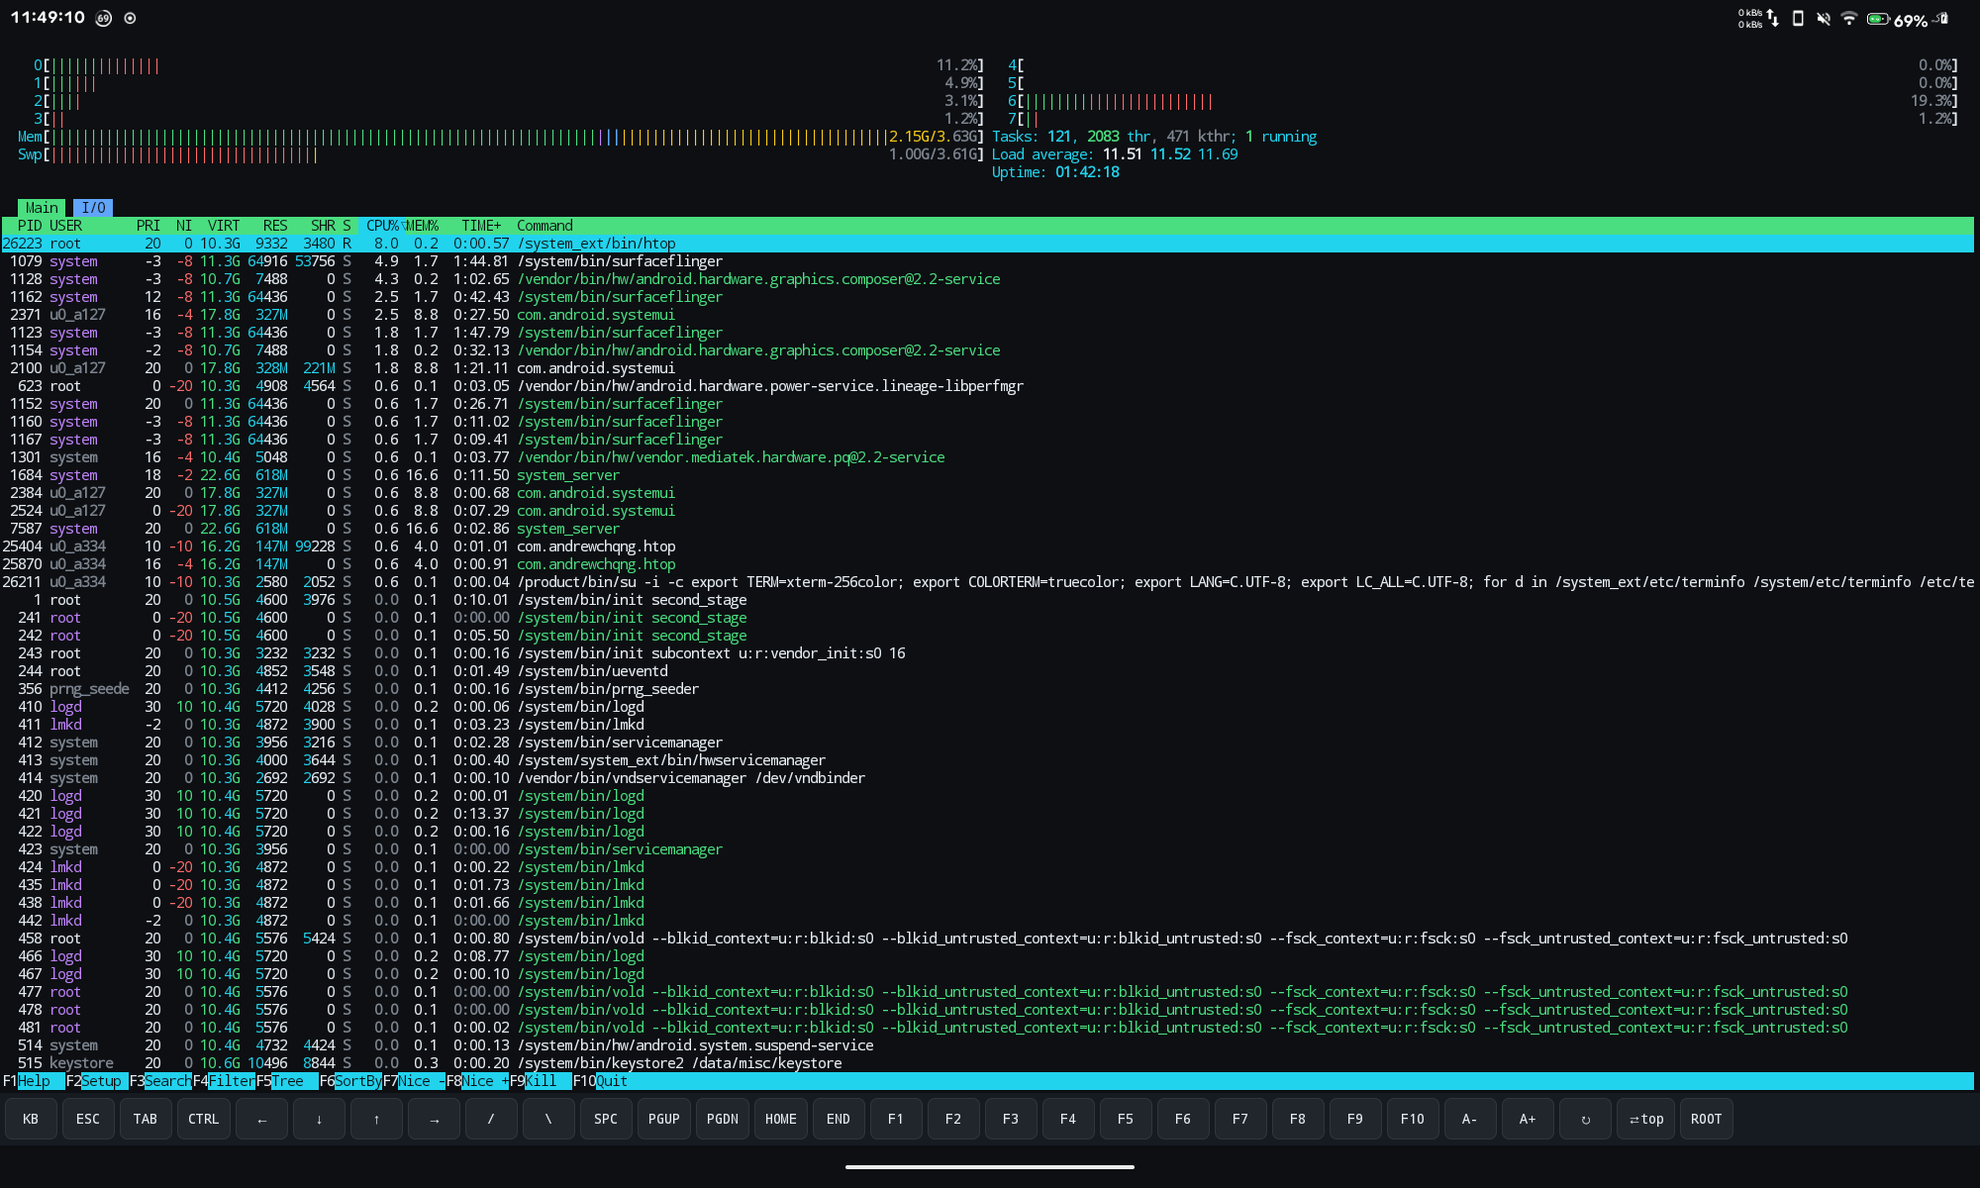
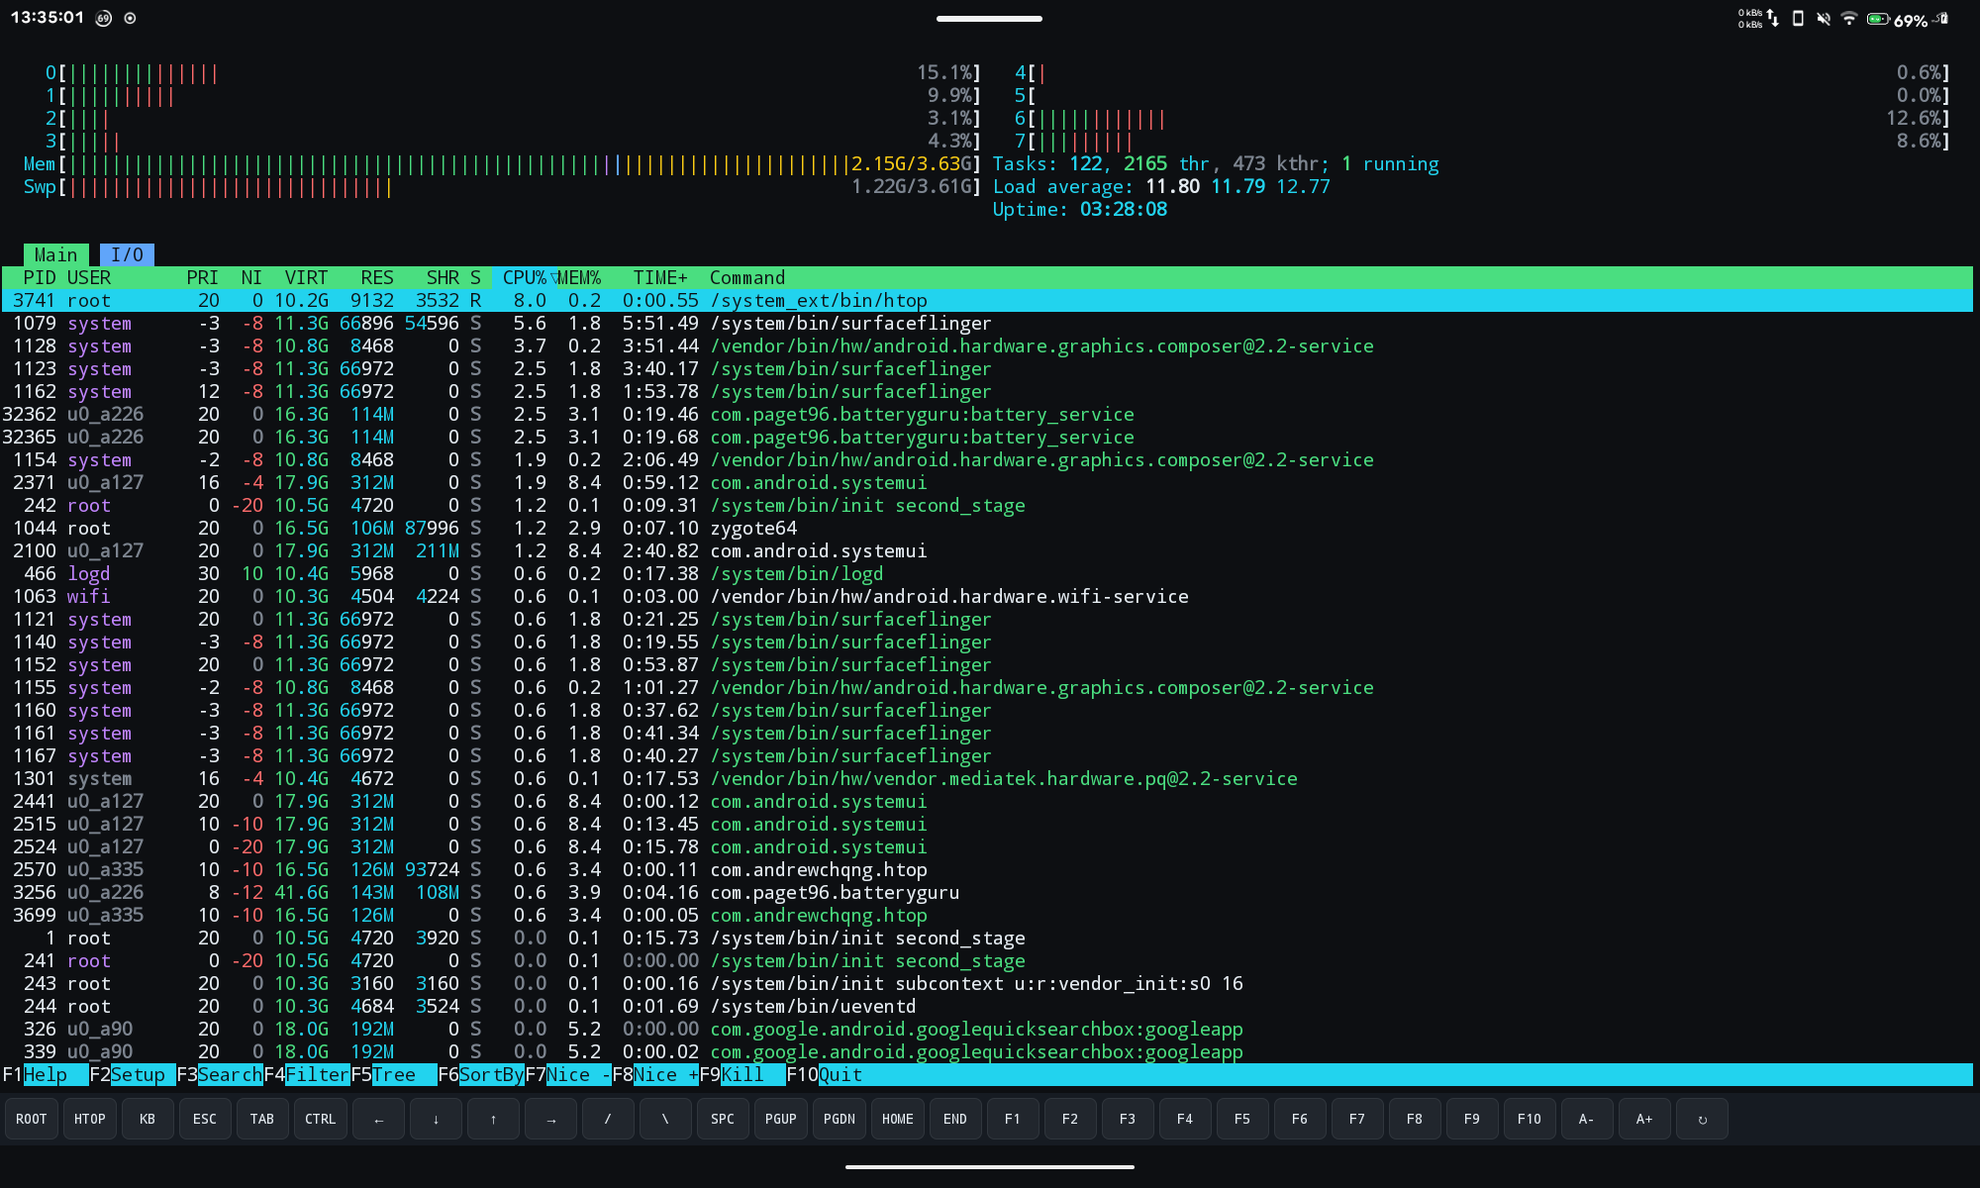
docs: refresh screenshots with leading toolbar pickers and optimize README for SEO
Recaptures all 4 device screenshots showing ROOT/SHZ/USER and HTOP/BND/TOP at the start of the toolbar, and restructures README.md with SEO headings, mode/package tables, Obtainium guide, and ADB examples.

diff --git a/README.md b/README.md
@@ -1,56 +1,111 @@
-# android-htop-gui
+# Android htop GUI — Native Process Monitor & Task Manager (Root, Shizuku & LineageOS)
 
-Lightweight native Android application that launches `htop` inside a native pseudo-terminal (PTY) — via root (`su`), [Shizuku](https://shizuku.rikka.app/), or non-root — and passes through touch, hardware mouse/scroll wheel, hardware keyboard, virtual keyboard (IME), and a compact extra-keys toolbar directly to the TUI.
+**`android-htop-gui`** is a lightweight, zero-permission native **Android `htop` GUI, process viewer, and system task manager**. It runs `htop` or `top` inside a C JNI pseudo-terminal (`/dev/ptmx` PTY) — supporting **Root (`su` / Magisk / KernelSU / APatch)**, **[Shizuku](https://shizuku.rikka.app/) (no root required, ADB / wireless debugging)**, and **Non-Root (`USER`)** modes — with full **touchscreen**, **hardware mouse/scroll wheel**, **hardware keyboard**, **virtual keyboard (IME)**, and **extra-keys toolbar** passthrough.
 
-<a href="https://apps.obtainium.imranr.dev/redirect?r=obtainium://app/%7B%22id%22%3A%22com.andrewchqng.htop%22%2C%22url%22%3A%22https%3A%2F%2Fgithub.com%2FAndrewChqng%2Fandroid-htop-gui%22%2C%22author%22%3A%22AndrewChqng%22%2C%22name%22%3A%22Android%20htop%22%2C%22additionalSettings%22%3A%22%7B%5C%22includePrereleases%5C%22%3Afalse%2C%5C%22fallbackToOlderReleases%5C%22%3Atrue%2C%5C%22autoApkFilterByArch%5C%22%3Atrue%7D%22%7D"><img src="docs/badge_obtainium.png" alt="Get it on Obtainium" height="56"></a>
+Works out of the box on **LineageOS** and custom ROMs with `/system_ext/bin/htop` preinstalled, **and** ships a self-contained **bundled `htop 3.5.3`** binary ([`arter97/android-htop`](https://github.com/arter97/android-htop) with statically linked `ncurses` and compiled-in `xterm-256color` terminfo) for stock Android / Pixel / Samsung / AOSP devices without `htop`.
 
-![Android htop running as root on LineageOS](docs/screenshots/htop-root.png)
+<p>
+  <a href="https://apps.obtainium.imranr.dev/redirect?r=obtainium://app/%7B%22id%22%3A%22com.andrewchqng.htop%22%2C%22url%22%3A%22https%3A%2F%2Fgithub.com%2FAndrewChqng%2Fandroid-htop-gui%22%2C%22author%22%3A%22AndrewChqng%22%2C%22name%22%3A%22Android%20htop%22%2C%22additionalSettings%22%3A%22%7B%5C%22includePrereleases%5C%22%3Afalse%2C%5C%22fallbackToOlderReleases%5C%22%3Atrue%2C%5C%22autoApkFilterByArch%5C%22%3Atrue%7D%22%7D"><img src="docs/badge_obtainium.png" alt="Get Android htop GUI on Obtainium" height="56"></a>
+</p>
 
-## Requirements & Execution Modes
+![Android htop GUI running as root on LineageOS with per-core CPU, memory, swap, and process list](docs/screenshots/htop-root.png)
 
-- **Root Access (`su`), Shizuku Mode, or Non-Root (Manual Selection)**: Select the execution backend manually via the leading **`ROOT`** / **`SHZ`** / **`USER`** pill at the start of the extra-keys toolbar or from the exit banner (no automatic fallback):
-  - **Root (`su`)**: MagiskSU / KernelSU with full `/proc` visibility and process signaling (`F7`/`F8`/`F9`). Uses `stty raw -echo` + `su -i -c` on MagiskSU for live `SIGWINCH` resize propagation (with `su -c` support).
-  - **Shizuku Mode**: Runs the native `/dev/ptmx` PTY inside a [Shizuku](https://shizuku.rikka.app/) `UserService` (`ShizukuPtyService`) using Shizuku's privileged `shell` (UID `2000`, `readproc`) or root context.
-  - **Non-Root (`USER`)**: Standard unprivileged app UID context.
-- **LineageOS / System `htop`, Bundled `htop`, or System `top` (Manual Selection)**: Choose the monitor binary via the **`HTOP`** / **`BND`** / **`TOP`** pill at the start of the extra-keys toolbar or from the exit banner (no automatic fallback between modes):
-  - **System `htop` (`HTOP`, default)**: Launches `/system_ext/bin/htop`, `/system/bin/htop`, `/system/xbin/htop`, `/data/local/tmp/htop`, or Termux `htop`.
-  - **Bundled `htop` (`BND`, [`arter97/android-htop`](https://github.com/arter97/android-htop) 3.5.3)**: Runs the self-contained `libhtop_bundled.so` binary packaged via `jniLibs` (statically linked against `ncurses` with compiled-in fallback terminfo entries, no `INTERNET` permission required).
-  - **System `top` (`TOP`)**: Launches Android's built-in `/system/bin/top -d 1`.
+---
+
+## Key Features
+
+- **3 Execution Backends (`ROOT` / `SHZ` / `USER`)**:
+  - **`ROOT` (`su`)**: Full `/proc` process & thread visibility, per-core CPU/RAM/swap meters, process priority renicing (`F7`/`F8`), and signal/kill (`F9`) via MagiskSU, KernelSU, or APatch.
+  - **`SHZ` ([Shizuku](https://shizuku.rikka.app/))**: Runs a privileged `ShizukuPtyService` (`UserService`) under Android's `shell` UID (`2000`, `readproc` group) or root — view system processes on unrooted devices using wireless debugging or ADB.
+  - **`USER` (Non-Root)**: Unprivileged app sandbox execution (Android 10–17 W^X compliant via `jniLibs` native library extraction).
+- **3 Process Monitor Binaries (`HTOP` / `BND` / `TOP`)**:
+  - **`HTOP` (System `htop`, default)**: Launches the ROM's built-in `htop` (`/system_ext/bin/htop` on LineageOS, `/system/bin/htop`, `/system/xbin/htop`, `/data/local/tmp/htop`, or Termux `htop`).
+  - **`BND` (Bundled `htop 3.5.3` via [`arter97/android-htop`](https://github.com/arter97/android-htop))**: Self-contained Android `htop` executable (`libhtop_bundled.so`) with compiled-in `ncurses` terminfo fallbacks (`xterm-256color`, `vt100`, etc.) — works on stock ROMs with zero external dependencies and **no `INTERNET` permission**.
+  - **`TOP` (System `top`)**: Launches Android's built-in `/system/bin/top -d 1`.
+- **Touch, Mouse & Keyboard TUI Control**:
+  - **Touch**: Tap any process row, column header (to sort by `CPU%`, `MEM%`, `PID`, `TIME+`), or `F1`–`F10` footer key (`SGR 1006` mouse reporting); drag vertically to scroll; drag horizontally to pan command lines; pinch-to-zoom font size (`7sp`–`28sp`) with live `TIOCSWINSZ` / `SIGWINCH` terminal reflow.
+  - **Extra-Keys Toolbar**: Leading **`ROOT`/`SHZ`/`USER`** and **`HTOP`/`BND`/`TOP`** popup pickers, virtual keyboard toggle (`KB`), `ESC`, `TAB`, sticky `CTRL`, auto-repeating arrow keys (`←`/`↓`/`↑`/`→`), `/`, `\`, `SPC`, `PGUP`, `PGDN`, `HOME`, `END`, `F1`–`F10`, font zoom (`A-`/`A+`), and session restart (`↻`).
+  - **Hardware Peripherals**: Full USB/Bluetooth keyboard (`F1`–`F12`, `Ctrl`/`Alt`/`Shift` combos) and mouse click + scroll wheel (`AXIS_VSCROLL`/`AXIS_HSCROLL`) support for Android tablets, foldables, DeX, and desktop mode.
+
+---
 
 ## Screenshots
 
-| Root Mode (`htop` on LineageOS) | Shizuku Mode (`F5` Tree View, No Root) |
+| Root Mode (`ROOT` + System `HTOP` on LineageOS) | Shizuku Mode (`SHZ` + Bundled `BND` `F5` Tree View) |
 | :---: | :---: |
-| ![Root Mode htop](docs/screenshots/htop-root.png) | ![Shizuku Mode F5 Tree View](docs/screenshots/htop-tree-shizuku.png) |
-| **`ROOT`** — native `/system_ext/bin/htop` with full `/proc` visibility and extra-keys bar | **`SHZ`** — Shizuku `UserService` PTY + `F5` process tree view without root |
+| ![Android htop Root Mode on LineageOS](docs/screenshots/htop-root.png) | ![Android htop Shizuku Mode Bundled htop 3.5.3 F5 Tree View](docs/screenshots/htop-tree-shizuku.png) |
+| **`ROOT` + `HTOP`** — native `/system_ext/bin/htop` with full `/proc` visibility and leading toolbar pickers | **`SHZ` + `BND`** — bundled `arter97/android-htop 3.5.3` in `F5` process tree view via Shizuku (no root) |
 
-| Interactive `F3` Search | Built-in `top` Fallback (`⇄top` / `⇄htop`) |
+| Interactive `F3` Process Search | Built-in Android `top` Mode (`SHZ` + `TOP`) |
 | :---: | :---: |
-| ![Interactive F3 Search](docs/screenshots/htop-search.png) | ![Shizuku Mode top Fallback](docs/screenshots/top-shizuku.png) |
-| Live **`F3` Search** (`F4` filter, `F6` sort, pinch-zoom & touch scroll/tap) | Automatic **`top -d 1`** fallback and one-tap live mode switching |
+| ![Android htop interactive F3 process search](docs/screenshots/htop-search.png) | ![Android top process monitor running via Shizuku](docs/screenshots/top-shizuku.png) |
+| Live **`F3` Search** (`F4` filter, `F6` sort, pinch-zoom & touch scroll/tap) | **`SHZ` + `TOP`** — Android `/system/bin/top -d 1` selectable anytime from the toolbar picker |
 
-## Architecture & Features
+---
+
+## Download & Install
+
+### Option 1: Obtainium (Recommended for Auto-Updates)
+Click the **[Get it on Obtainium](https://apps.obtainium.imranr.dev/redirect?r=obtainium://app/%7B%22id%22%3A%22com.andrewchqng.htop%22%2C%22url%22%3A%22https%3A%2F%2Fgithub.com%2FAndrewChqng%2Fandroid-htop-gui%22%2C%22author%22%3A%22AndrewChqng%22%2C%22name%22%3A%22Android%20htop%22%2C%22additionalSettings%22%3A%22%7B%5C%22includePrereleases%5C%22%3Afalse%2C%5C%22fallbackToOlderReleases%5C%22%3Atrue%2C%5C%22autoApkFilterByArch%5C%22%3Atrue%7D%22%7D)** badge above or add `https://github.com/AndrewChqng/android-htop-gui` in [Obtainium](https://github.com/ImranR98/Obtainium). With architecture filtering enabled, Obtainium automatically downloads the slim per-ABI APK for your device.
+
+### Option 2: GitHub Releases (Per-ABI Split APKs, Universal APK, or `.apks`)
+Download the latest v2/v3-signed package from [**GitHub Releases**](https://github.com/AndrewChqng/android-htop-gui/releases/latest):
+
+| Package | Size | Target Devices |
+| :--- | :---: | :--- |
+| `android-htop-gui-v*-arm64-v8a-release.apk` | ~396 KB | Modern 64-bit ARM phones & tablets (`arm64-v8a`) |
+| `android-htop-gui-v*-armeabi-v7a-release.apk` | ~374 KB | 32-bit ARM devices (`armeabi-v7a`) |
+| `android-htop-gui-v*-x86_64-release.apk` | ~400 KB | `x86_64` tablets, ChromeOS, Waydroid & Android emulators |
+| `android-htop-gui-v*-universal-release.apk` | ~922 KB | Universal standalone APK containing all ABIs |
+| `android-htop-gui-v*-release.apks` | ~961 KB | Split APK Set archive for Obtainium, SAI, App Manager & `bundletool` |
+
+---
+
+## Execution Backends & Monitor Modes
+
+Select both the **execution backend** (`ROOT` / `SHZ` / `USER`) and **monitor binary** (`HTOP` / `BND` / `TOP`) manually via the two leading pills at the far left of the extra-keys toolbar or from the session exit banner. Your choices persist across launches (no unexpected silent fallbacks).
+
+| Toolbar Pill | Options | Description |
+| :--- | :--- | :--- |
+| **Backend (`ROOT` / `SHZ` / `USER`)** | `Root (su)` · `Shizuku` · `Non-Root` | Controls whether the PTY shell runs via `su -i -c` (Root), `ShizukuPtyService` (`shell` UID 2000 / root), or the unprivileged app UID. |
+| **Monitor (`HTOP` / `BND` / `TOP`)** | `System htop` · `Bundled htop (arter97)` · `System top` | Selects the device's ROM `htop`, the bundled self-contained `htop 3.5.3` (`libhtop_bundled.so`), or `/system/bin/top -d 1`. |
+
+You can also launch a specific combination directly over `adb`:
+
+```bash
+# Root + System htop
+adb shell am start -n com.andrewchqng.htop/.MainActivity --es backend root --es mode htop
+
+# Shizuku + Bundled htop 3.5.3 (no root or ROM htop required)
+adb shell am start -n com.andrewchqng.htop/.MainActivity --es backend shizuku --es mode bundled
+
+# Shizuku + System top
+adb shell am start -n com.andrewchqng.htop/.MainActivity --es backend shizuku --es mode top
+```
+
+---
+
+## Architecture
 
 - **Native PTY Bridge ([`pty.c`](app/src/main/cpp/pty.c), [`PtyNative.kt`](app/src/main/java/com/andrewchqng/htop/pty/PtyNative.kt), [`PtySession.kt`](app/src/main/java/com/andrewchqng/htop/pty/PtySession.kt))**:
-  - Opens `/dev/ptmx` with `TIOCSWINSZ`, `IUTF8`, and clean FD/signal hygiene before `execve("/system/bin/sh", ...)`.
-  - Runs dedicated background reader, writer, and process-waiter threads so UI/touch callbacks never block the main thread.
-- **Process Monitor Modes & Command Builder ([`HtopCommandBuilder.kt`](app/src/main/java/com/andrewchqng/htop/pty/HtopCommandBuilder.kt))**:
-  - Sets `TERM=xterm-256color`, `COLORTERM=truecolor`, `LANG=C.UTF-8`, auto-detects device `TERMINFO` (e.g., `/system_ext/etc/terminfo`), and points `XDG_CONFIG_HOME` to app-private `files/config` (or `/data/local/tmp/.android-htop-config` under Shizuku) so `htoprc` persists across runs.
-  - Supports **System `htop`** (`HTOP`), **Bundled `htop`** (`BND`, from `nativeLibraryDir/libhtop_bundled.so` with `/data/local/tmp/.android-htop-bundled` fallback for strict SELinux `shell` contexts), and **System `top`** (`TOP`), without automatic cross-mode fallback.
-  - Uses `stty raw -echo` + `su -i -c` on MagiskSU (falling back to `su -c`) so `SIGWINCH` window resizes and raw input sequences propagate cleanly.
-- **VT100 / xterm-256color Emulator & Canvas Renderer ([`TerminalEmulator.kt`](app/src/main/java/com/andrewchqng/htop/terminal/TerminalEmulator.kt), [`TerminalBuffer.kt`](app/src/main/java/com/andrewchqng/htop/terminal/TerminalBuffer.kt), [`TerminalView.kt`](app/src/main/java/com/andrewchqng/htop/ui/TerminalView.kt))**:
-  - Supports alternate screen (`?1049h`/`l`), SGR 16/256/24-bit colors, DEC line-drawing & UTF-8, scroll regions (`DECSTBM`), `DECCKM` (`?1h`/`l`), and SGR 1006 / X10 mouse tracking (`?1006;1000h`).
-  - Lock-free `Canvas` snapshot rendering with zero per-frame allocations.
-- **Full Input Passthrough ([`InputEncoder.kt`](app/src/main/java/com/andrewchqng/htop/ui/InputEncoder.kt), [`ExtraKeysBar.kt`](app/src/main/java/com/andrewchqng/htop/ui/ExtraKeysBar.kt))**:
-  - **Touch**: tap rows, column headers, or `F1`–`F10` footer buttons (`SGR 1006` press+release); vertical drag scrolls the list (`wheel 64/65`); horizontal drag pans wide command lines (`Left`/`Right` arrows); two-finger pinch zooms font size (`7sp`–`28sp`) with live `SIGWINCH` reflow.
-  - **Hardware Mouse**: left/middle/right clicks, drag tracking, and vertical/horizontal scroll wheel (`AXIS_VSCROLL`/`AXIS_HSCROLL`).
-  - **Keyboard & IME**: hardware keyboard (`F1`–`F12`, arrows, `Ctrl` combos, `Alt` combos, `Shift+Tab`), virtual IME (`BaseInputConnection`), and an extra-keys toolbar (`ROOT`/`SHZ`/`USER`, `HTOP`/`BND`/`TOP`, `KB`, `ESC`, `TAB`, sticky `CTRL`, repeatable arrows, `F1`–`F10`, `A-`/`A+`, `↻`).
+  - Opens `/dev/ptmx` with `TIOCSWINSZ`, `IUTF8`, 16 KB page-size alignment (`-Wl,-z,max-page-size=16384`), and clean FD/signal hygiene before `execve("/system/bin/sh", ...)`.
+  - Dedicated reader, writer, and `waitpid` threads keep UI rendering and touch callbacks lock-free.
+- **Shizuku `UserService` IPC ([`ShizukuPtyService.kt`](app/src/main/java/com/andrewchqng/htop/shizuku/ShizukuPtyService.kt), [`ShizukuPtySession.kt`](app/src/main/java/com/andrewchqng/htop/shizuku/ShizukuPtySession.kt))**:
+  - Runs the native PTY bridge inside Shizuku's privileged process over Binder AIDL with automatic death-recipient cleanup.
+- **Command & Environment Builder ([`HtopCommandBuilder.kt`](app/src/main/java/com/andrewchqng/htop/pty/HtopCommandBuilder.kt))**:
+  - Exports `TERM=xterm-256color`, `COLORTERM=truecolor`, `LANG=C.UTF-8`, auto-detects device `TERMINFO` (`/system_ext/etc/terminfo`, `/system/etc/terminfo`, Termux), and sets `XDG_CONFIG_HOME` so `htoprc` preferences persist across sessions.
+  - Uses `stty raw -echo` + `su -i -c` on MagiskSU (falling back to `su -c`) so `SIGWINCH` window resizes and raw escape sequences propagate cleanly.
+- **VT100 / xterm-256color Terminal Emulator & Canvas Renderer ([`TerminalEmulator.kt`](app/src/main/java/com/andrewchqng/htop/terminal/TerminalEmulator.kt), [`TerminalBuffer.kt`](app/src/main/java/com/andrewchqng/htop/terminal/TerminalBuffer.kt), [`TerminalView.kt`](app/src/main/java/com/andrewchqng/htop/ui/TerminalView.kt))**:
+  - Alternate screen buffer (`?1049h`/`l`), SGR 16/256/24-bit truecolor, DEC line-drawing & UTF-8 block meters, scroll regions (`DECSTBM`), `DECCKM` (`?1h`/`l`), and SGR 1006 / X10 mouse tracking (`?1006;1000h`).
+  - Zero-allocation `Canvas` frame rendering.
+
+---
 
 ## Rebuilding & Auto-Updating Bundled `htop`
 
-[`arter97/android-htop`](https://github.com/arter97/android-htop) is mounted as a Git submodule at `third_party/android-htop` and invoked through the wrapper [`scripts/build-bundled-htop.sh`](scripts/build-bundled-htop.sh) (which builds `arm64-v8a`, `armeabi-v7a`, and `x86_64`, verifies 16 KB ELF page alignment, installs `app/src/main/jniLibs/<abi>/libhtop_bundled.so`, and writes [`third_party/VERSIONS.txt`](third_party/VERSIONS.txt)).
+[`arter97/android-htop`](https://github.com/arter97/android-htop) is mounted as a Git submodule at `third_party/android-htop` and invoked through [`scripts/build-bundled-htop.sh`](scripts/build-bundled-htop.sh), which cross-compiles static `ncurses` + `htop` for `arm64-v8a`, `armeabi-v7a`, and `x86_64`, verifies 16 KB ELF page alignment, installs `app/src/main/jniLibs/<abi>/libhtop_bundled.so`, and writes [`third_party/VERSIONS.txt`](third_party/VERSIONS.txt).
 
-- **Automatic Updates**: [`.github/workflows/update-bundled-htop.yml`](.github/workflows/update-bundled-htop.yml) runs daily (and on `workflow_dispatch`) to sync the `arter97/android-htop` submodule and upstream `htop`/`ncurses` releases, rebuild `jniLibs`, verify unit tests, and commit updates to `main`.
+- **Automated CI Sync**: [`.github/workflows/update-bundled-htop.yml`](.github/workflows/update-bundled-htop.yml) runs daily (and on `workflow_dispatch`) to check for new `arter97/android-htop` commits or upstream `htop-dev/htop` releases, rebuilds all `jniLibs`, runs unit tests, and commits updates to `main`.
 - **Local Rebuild**:
 
 ```bash
@@ -58,29 +113,34 @@ ANDROID_NDK_HOME=$HOME/Android/Sdk/ndk/28.2.13676358 \
   ./scripts/build-bundled-htop.sh
 ```
 
-## Build & Install
+---
+
+## Build from Source
 
 Requirements: Android SDK (`compileSdk 36`, NDK `28.2.13676358`, CMake `3.22.1`), JDK 21, `adb`.
 
-Builds produce per-ABI split APKs (`arm64-v8a`, `armeabi-v7a`, `x86_64`), a combined `universal` APK, and a bundletool APK Set archive (`app-<buildType>.apks`) under `app/build/outputs/apk/<buildType>/`:
+Builds output per-ABI split APKs (`arm64-v8a`, `armeabi-v7a`, `x86_64`), a combined `universal` APK, and a single-variant `app-<buildType>.apks` archive under `app/build/outputs/apk/<buildType>/`:
 
 ```bash
+git clone --recurse-submodules https://github.com/AndrewChqng/android-htop-gui.git
+cd android-htop-gui
 JAVA_HOME=/home/roboy/.jdks/jdk-21 ./gradlew testDebugUnitTest assembleDebug
 adb install -r app/build/outputs/apk/debug/app-arm64-v8a-debug.apk
-adb shell am start -n com.andrewchqng.htop/.MainActivity
 ```
 
 ### Release Signing
 
-Release builds use APK Signature Scheme v2/v3 (PKCS12, RSA 4096-bit, `isMinifyEnabled = true`, `isShrinkResources = true`, no Google dependency metadata blobs). Copy [`keystore.properties.example`](keystore.properties.example) to a gitignored `keystore.properties` file or provide environment variables (`ANDROID_KEYSTORE_PATH`, `ANDROID_KEYSTORE_PASSWORD`, `ANDROID_KEY_ALIAS`, `ANDROID_KEY_PASSWORD`), then run:
+Release builds use APK Signature Scheme v2/v3 (PKCS12, RSA 4096-bit, `isMinifyEnabled = true`, `isShrinkResources = true`, no Google dependency metadata blobs). Copy [`keystore.properties.example`](keystore.properties.example) to a gitignored `keystore.properties` file or export `ANDROID_KEYSTORE_PATH`, `ANDROID_KEYSTORE_PASSWORD`, `ANDROID_KEY_ALIAS`, and `ANDROID_KEY_PASSWORD`, then run:
 
 ```bash
 JAVA_HOME=/home/roboy/.jdks/jdk-21 ./gradlew testDebugUnitTest assembleRelease
 ```
 
+---
+
 ## Credits & License Notices
 
-See [`THIRD_PARTY_NOTICES.md`](THIRD_PARTY_NOTICES.md) for full open-source attributions (`arter97/android-htop`, `htop-dev/htop` GPL-2.0-only, GNU `ncurses`, and `Shizuku`).
+See [`THIRD_PARTY_NOTICES.md`](THIRD_PARTY_NOTICES.md) for full open-source attributions ([`arter97/android-htop`](https://github.com/arter97/android-htop), [`htop-dev/htop`](https://github.com/htop-dev/htop) `GPL-2.0-only`, GNU `ncurses`, and [`Shizuku`](https://github.com/RikkaApps/Shizuku-API) `Apache-2.0`).
 
 ---
 
